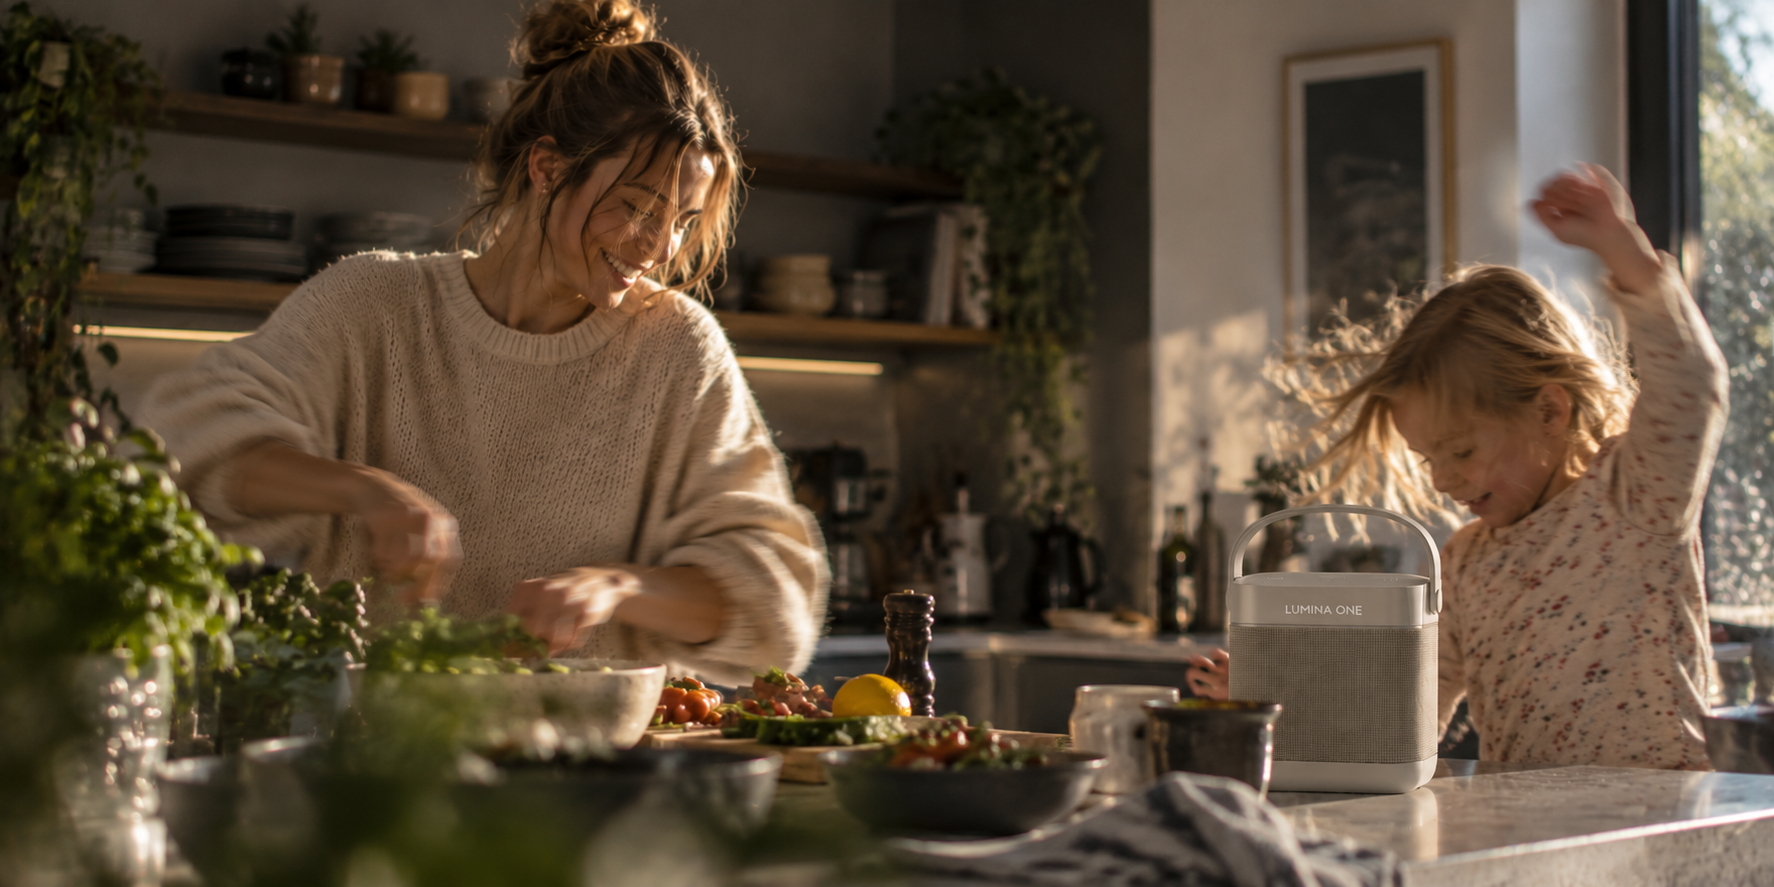
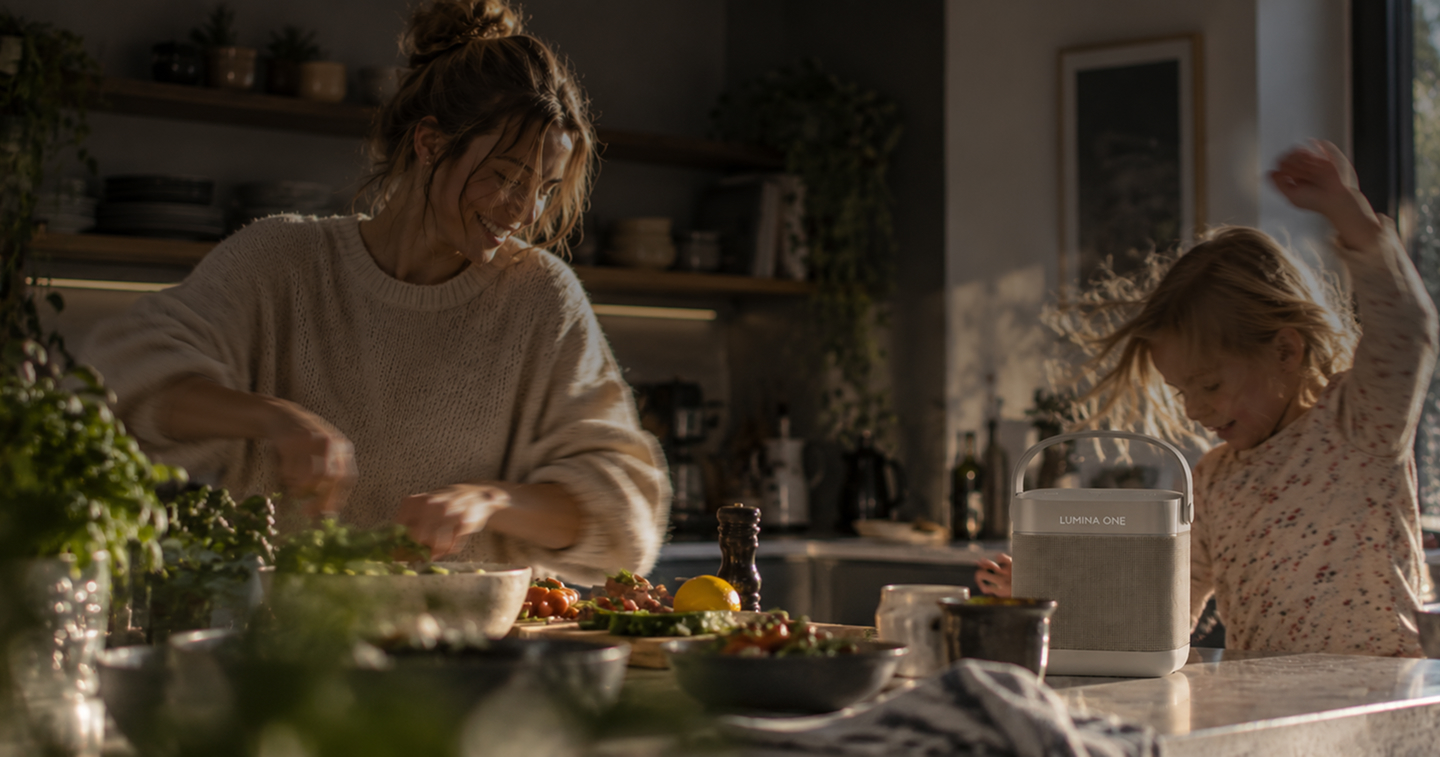
hero-section updated to match redesign

diff --git a/style.css b/style.css
@@ -96,6 +96,7 @@ body {
 
 /*Hero*/
 header {
+  position: relative; /*Gør det muligt at placere scroll-indikatoren nederst i billedet*/
   height: 100vh;
   background-color: var(--bg-color);
 
@@ -116,11 +117,41 @@ header {
   flex-direction: column;
   justify-content: center;
   align-items: flex-start;
+  gap: 24px;
   padding-left: 120px;
-  padding-right: 700px;
+  padding-right: 600px;
   padding-top: 100px;
   padding-bottom: 224px;
   text-align: left;
+}
+
+.hero-subtitle {
+  max-width: 480px;
+}
+
+/*Scroll ned indikator nederst i Hero*/
+
+.scroll-indicator {
+  position: absolute;
+  bottom: 40px;
+  left: 50%;
+  transform: translateX(-50%);
+  display: flex;
+  flex-direction: column;
+  align-items: center;
+  gap: 8px;
+  color: var(--tekst-billeder);
+}
+
+.scroll-indicator p {
+  font-family: "Jura", sans-serif;
+  font-size: 16px;
+  font-weight: 400;
+}
+
+.scroll-indicator img {
+  width: 16px;
+  height: auto;
 }
 
 /*BUY NOW knap styles*/

diff --git a/index.html b/index.html
@@ -35,9 +35,17 @@
 
       <section id="HeroText">
         <h1>Bring the sound with you</h1>
-        <br />
-        <button class="HeroButton">BUY NOW</button>
+        <p class="hero-subtitle">
+          Meet Lumina One - a Bluetooth speaker <br />
+          made for every moment.
+        </p>
+        <button class="HeroButton">READ MORE</button>
       </section>
+
+      <div class="scroll-indicator">
+        <p>Scroll to explore the Lumina One speaker</p>
+        <img src="assets/icons/arrow-white.webp" alt="Scroll down" />
+      </div>
     </header>
     <main>
       <section id="Produktside1">
